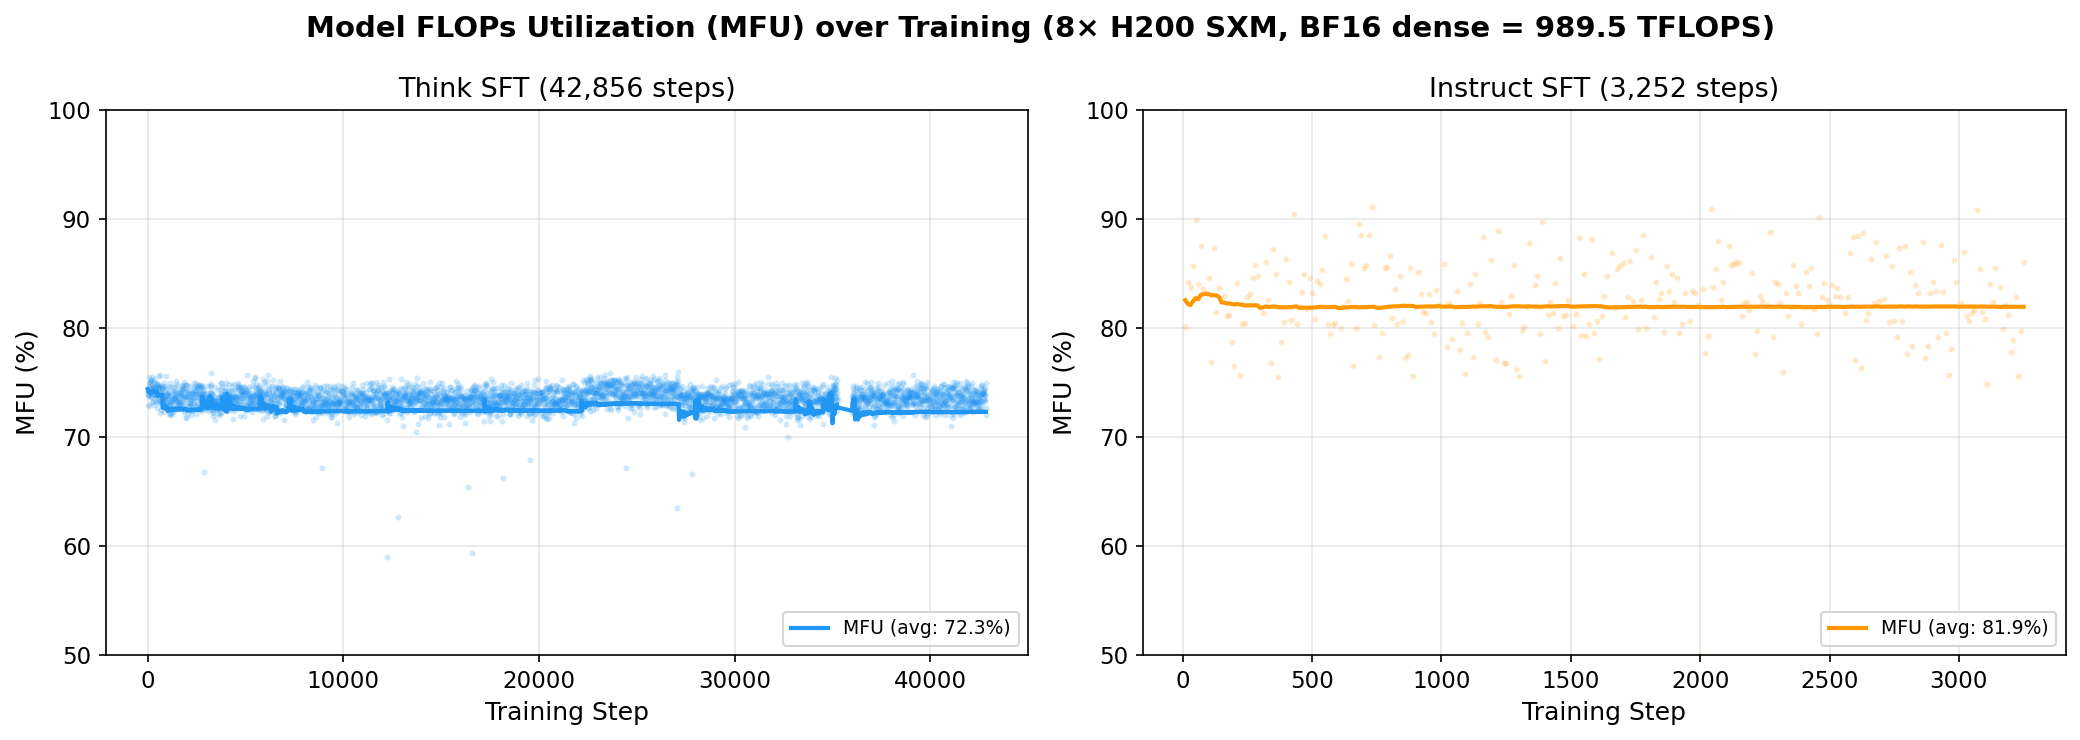
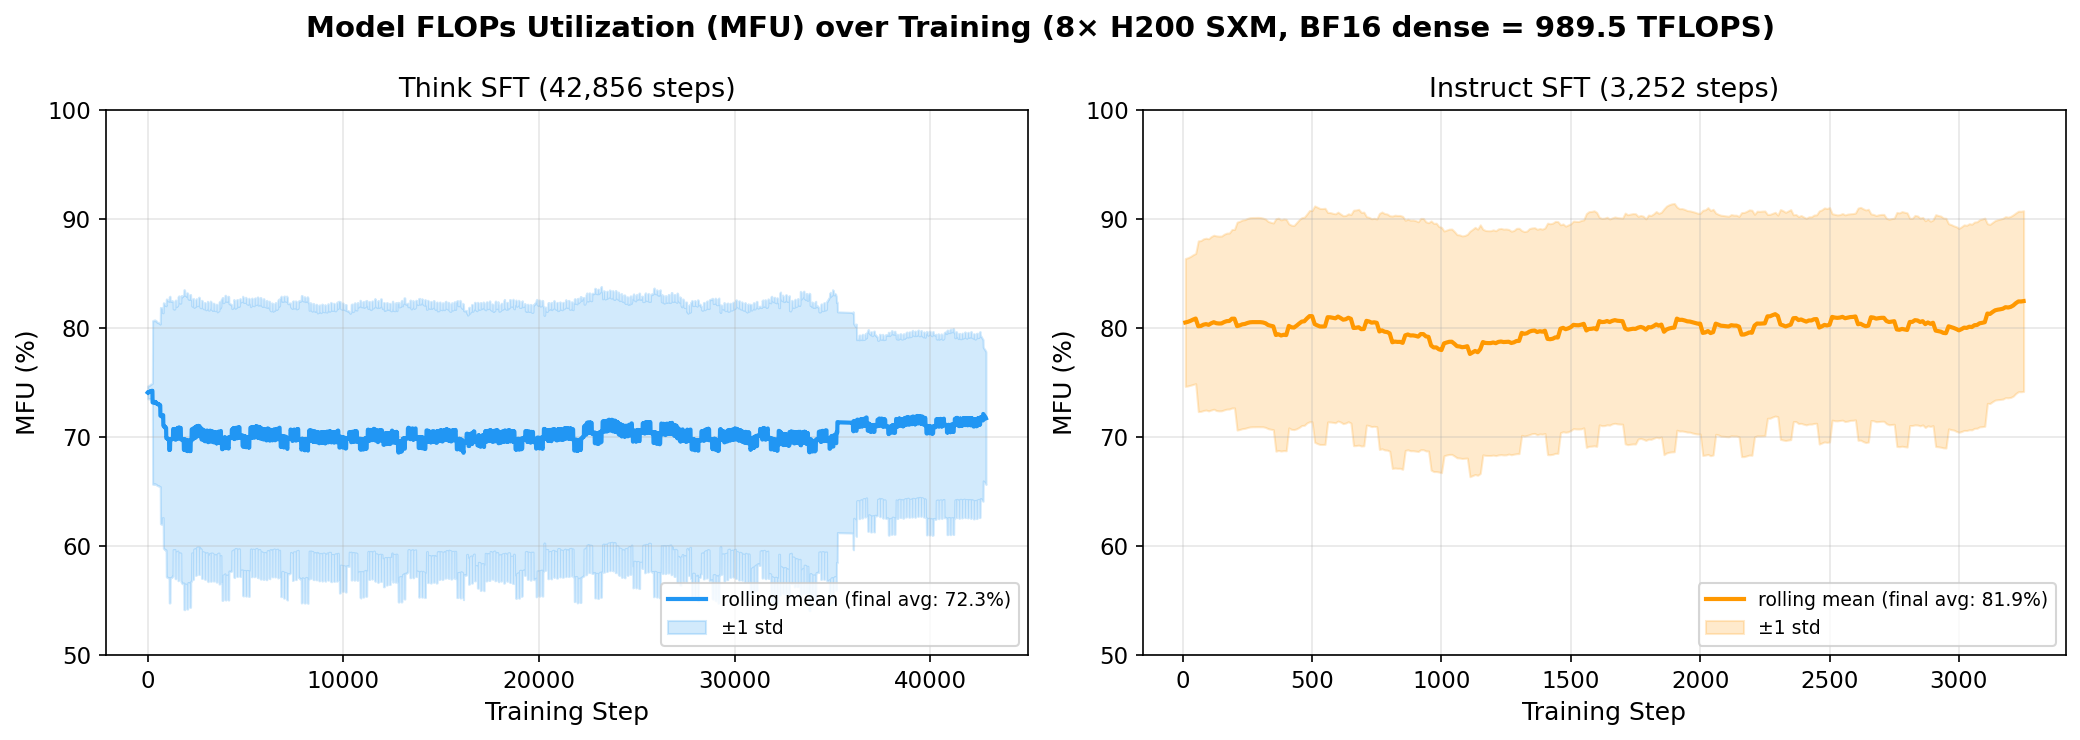
Consolidate throughput to v2-only, shaded confidence bands, remove notes
- Tables now show only v2 production run data (single table, not v1 vs v2)
- Plots use rolling mean + ±1 std shaded band instead of scatter points
- Remove MFU correction footnotes (detail moved into metric definition)
- Remove confusing "reported A100 basis" MFU row

Changed region(s): [[0.0625, 0.373, 0.5, 0.8703], [0.5625, 0.2797, 1.0, 0.6527], [0.8125, 0.777, 1.0, 0.8703]]

diff --git a/oellm/experiments/baseline_repro/scripts/plot_throughput.py b/oellm/experiments/baseline_repro/scripts/plot_throughput.py
@@ -243,30 +243,38 @@ def main():
         'legend.fontsize': 9, 'figure.dpi': 150,
     })
 
+    def rolling_stats(steps, values, window=50):
+        """Compute rolling mean and std for shaded confidence band."""
+        from numpy.lib.stride_tricks import sliding_window_view
+        if len(values) < window:
+            window = max(1, len(values) // 3)
+        pad = window // 2
+        # Pad edges to keep same length
+        padded = np.pad(values, (pad, window - 1 - pad), mode='edge')
+        windows = sliding_window_view(padded, window)
+        mean = windows.mean(axis=1)
+        std = windows.std(axis=1)
+        return mean, std
+
     # ====== Figure 1: TPS/device over steps ======
     fig, axes = plt.subplots(1, 2, figsize=(14, 5))
     fig.suptitle('Tokens Per Second (TPS) per Device over Training (8× H200 SXM, BF16)',
                  fontsize=14, fontweight='bold')
 
-    # Think (left)
-    axes[0].scatter(v2_think['steps'], v2_think['tps'], alpha=0.15, s=4, color='#2196F3')
-    axes[0].plot(v2_think['steps'], v2_think['tps_avg'], color='#2196F3', linewidth=2,
-                 label=f"Think SFT (avg: {v2_think['tps_avg'][-1]:,.0f})")
-    axes[0].set_title('Think SFT (42,856 steps)')
-    axes[0].set_xlabel('Training Step')
-    axes[0].set_ylabel('TPS / device')
-    axes[0].legend(loc='lower right')
-    axes[0].grid(True, alpha=0.3)
-
-    # Instruct (right)
-    axes[1].scatter(v2_instruct['steps'], v2_instruct['tps'], alpha=0.15, s=4, color='#FF9800')
-    axes[1].plot(v2_instruct['steps'], v2_instruct['tps_avg'], color='#FF9800', linewidth=2,
-                 label=f"Instruct SFT (avg: {v2_instruct['tps_avg'][-1]:,.0f})")
-    axes[1].set_title('Instruct SFT (3,252 steps)')
-    axes[1].set_xlabel('Training Step')
-    axes[1].set_ylabel('TPS / device')
-    axes[1].legend(loc='lower right')
-    axes[1].grid(True, alpha=0.3)
+    for ax, title, data, color in [
+        (axes[0], 'Think SFT (42,856 steps)', v2_think, '#2196F3'),
+        (axes[1], 'Instruct SFT (3,252 steps)', v2_instruct, '#FF9800'),
+    ]:
+        mean, std = rolling_stats(data['steps'], data['tps'])
+        ax.plot(data['steps'], mean, color=color, linewidth=2,
+                label=f"rolling mean (final avg: {data['tps_avg'][-1]:,.0f})")
+        ax.fill_between(data['steps'], mean - std, mean + std, color=color, alpha=0.2,
+                        label='±1 std')
+        ax.set_title(title)
+        ax.set_xlabel('Training Step')
+        ax.set_ylabel('TPS / device')
+        ax.legend(loc='lower right')
+        ax.grid(True, alpha=0.3)
 
     plt.tight_layout()
     for out_dir in [FIGURES, EVAL_FIGURES]:
@@ -279,14 +287,15 @@ def main():
     fig.suptitle('Model FLOPs Utilization (MFU) over Training (8× H200 SXM, BF16 dense = 989.5 TFLOPS)',
                  fontsize=14, fontweight='bold')
 
-    for idx, (title, data, color) in enumerate([
-        ('Think SFT (42,856 steps)', v2_think, '#2196F3'),
-        ('Instruct SFT (3,252 steps)', v2_instruct, '#FF9800'),
-    ]):
-        ax = axes[idx]
-        ax.scatter(data['steps'], data['mfu'], alpha=0.15, s=4, color=color)
-        ax.plot(data['steps'], data['mfu_avg'], color=color, linewidth=2,
-                label=f"MFU (avg: {data['mfu_avg'][-1]:.1f}%)")
+    for ax, title, data, color in [
+        (axes[0], 'Think SFT (42,856 steps)', v2_think, '#2196F3'),
+        (axes[1], 'Instruct SFT (3,252 steps)', v2_instruct, '#FF9800'),
+    ]:
+        mean, std = rolling_stats(data['steps'], data['mfu'])
+        ax.plot(data['steps'], mean, color=color, linewidth=2,
+                label=f"rolling mean (final avg: {data['mfu_avg'][-1]:.1f}%)")
+        ax.fill_between(data['steps'], mean - std, mean + std, color=color, alpha=0.2,
+                        label='±1 std')
         ax.set_title(title)
         ax.set_xlabel('Training Step')
         ax.set_ylabel('MFU (%)')

diff --git a/oellm/experiments/baseline_repro/eval_results.md b/oellm/experiments/baseline_repro/eval_results.md
@@ -436,54 +436,27 @@ Bradley-Terry ELO estimated on 20k LMArena battles (all languages, single-turn),
 
 ## Training Throughput
 
-Throughput metrics from wandb offline logs for both clusters. v1 ran entirely on kislurm (single-node), v2 ran entirely on HoreKa (multi-node) — these are independent reproductions, not one run split across clusters. MFU values corrected for H200 (OLMo-core misidentifies H200 as A100 — see notes).
+Throughput metrics for the v2 production runs (used for all evaluations above). Think SFT v2 started on kislurm and was transferred to HoreKa to finish; Instruct SFT v2 ran entirely on HoreKa. All metrics from wandb offline logs.
 
 **Metric definitions:**
-- **TPS (Tokens Per Second)**: Number of tokens one GPU processes per second. Multiply by 8 to get total cluster throughput. Higher TPS = faster training.
-- **MFU (Model FLOPs Utilization)**: Percentage of the GPU's peak theoretical compute actually used for training. 73% means 73% of the H200's 989.5 TFLOPS (BF16 dense) is doing useful work; the rest is memory transfers, synchronization, idle time. Includes forward + backward pass FLOPs per the PaLM convention.
-- **Wall-clock**: Total real-world training time, computed as `total_steps × avg_step_time`. Not calendar time — excludes SLURM queue waits, preemptions, and restarts between array jobs.
+- **TPS (Tokens Per Second)**: Number of tokens one GPU processes per second. Total cluster throughput = TPS/device × 8 GPUs.
+- **MFU (Model FLOPs Utilization)**: Percentage of the GPU's theoretical peak compute used for training (forward + backward FLOPs per the PaLM convention). 72% means 72% of the H200's 989.5 TFLOPS (BF16 dense) is doing useful matrix math; the rest is memory transfers, synchronization, and idle time.
+- **Wall-clock**: Total training compute time = `total_steps × avg_step_time`. Excludes SLURM queue waits and restart overhead.
 
 ### Hardware & Configuration
 
-| | kislurm (v1) | HoreKa (v2) |
-|---|---|---|
-| **GPUs** | 8× H200 SXM (1 node) | 2× 4 H200 SXM (2 nodes) |
-| **Cluster node(s)** | dlc2gpu21 (Think), dlc2gpu19 (Instruct) | hkn1953 (Think), hkn1952 (Instruct) |
-| **Intra-node** | NVLink 4th gen (900 GB/s bidirectional) | NVLink 4th gen (900 GB/s bidirectional) |
-| **Inter-node** | N/A (single node) | InfiniBand HDR200 (200 Gb/s), Mellanox ConnectX HCA (`mlx5`) |
-| **Precision** | BF16 | BF16 |
-| **Seq length** | 32,768 | 32,768 |
-| **Global batch size** | 1,048,576 tokens (1M) | 1,048,576 tokens (1M) |
-| **Tokens/step/device** | 131,072 | 131,072 |
-| **CUDA** | 13.0 | 12.4 |
+| | |
+|---|---|
+| **GPUs** | 8× NVIDIA H200 SXM (141 GiB HBM3e) |
+| **Topology** | Think: 1×8 H200 (kislurm, steps 0–35K) → 2×4 H200 (HoreKa, steps 35K–42.8K). Instruct: 2×4 H200 (HoreKa) |
+| **Intra-node** | NVLink 4th gen (900 GB/s bidirectional) |
+| **Inter-node** | InfiniBand HDR200 (200 Gb/s), Mellanox ConnectX HCA (`mlx5`) — HoreKa only |
+| **Precision** | BF16 |
+| **Seq length** | 32,768 |
+| **Global batch size** | 1,048,576 tokens (1M) |
+| **Tokens/step/device** | 131,072 |
 
-### Throughput Summary (kislurm, 1× 8 H200)
-
-| Metric | Think SFT | Instruct SFT |
-|---|---|---|
-| Total tokens | 45.5B | 3.6B |
-| Total steps | 43,376 | 3,394 |
-| Epochs | 2 | 2 |
-| Dataset size | 694,030 samples | 54,314 samples |
-| Learning rate | 5e-5 | 8e-5 |
-| | | |
-| **TPS/device (avg)** | **7,792** | **8,721** |
-| **Total TPS (8 GPUs)** | **62,333** | **69,767** |
-| Step time (avg) | 16.8 s | 15.0 s |
-| Steps/hour | 214 | 240 |
-| Tokens/GPU-hour | 28.0M | 31.4M |
-| | | |
-| MFU (reported, A100 basis ²) | 463.8% | 519.1% |
-| **MFU (corrected, H200 basis ³)** | **73.1%** | **81.8%** |
-| Data loading overhead | 0.33% | 0.56% |
-| | | |
-| GPU active memory | 96.9 GiB (69.3%) | 96.9 GiB (69.3%) |
-| GPU reserved memory | 104.6 GiB (74.8%) | 104.6 GiB (74.8%) |
-| | | |
-| **Computed wall-clock** | **202.8 h** | **14.2 h** |
-| **GPU-hours** | **1,622** | **113** |
-
-### Throughput Summary (HoreKa, 2× 4 H200)
+### Throughput Summary
 
 | Metric | Think SFT | Instruct SFT |
 |---|---|---|
@@ -499,8 +472,7 @@ Throughput metrics from wandb offline logs for both clusters. v1 ran entirely on
 | Steps/hour | 212 | 240 |
 | Tokens/GPU-hour | 27.7M | 31.4M |
 | | | |
-| MFU (reported, A100 basis ²) | 458.6% | 519.7% |
-| **MFU (corrected, H200 basis ³)** | **72.3%** | **81.9%** |
+| **MFU (H200 BF16 dense)** | **72.3%** | **81.9%** |
 | Data loading overhead | 0.15% | 0.15% |
 | | | |
 | GPU active memory | 110.5 GiB (79.0%) | 110.5 GiB (79.0%) |
@@ -509,22 +481,12 @@ Throughput metrics from wandb offline logs for both clusters. v1 ran entirely on
 | **Computed wall-clock** | **202.5 h** | **13.6 h** |
 | **GPU-hours** | **1,620** | **108** |
 
-### Cross-Cluster Comparison (kislurm vs HoreKa)
-
-| Metric | Think SFT | Instruct SFT |
-|---|---|---|
-| TPS/device delta | -1.1% | +0.1% |
-| GPU active mem delta | +13.6 GiB | +13.6 GiB |
-| MFU delta (H200) | -0.8 pp | +0.1 pp |
-
-Multi-node overhead is minimal (~1% TPS reduction for Think). The +13.6 GiB higher GPU memory on HoreKa is due to DeepSpeed ZeRO-2 communication buffers for inter-node gradient synchronization over InfiniBand.
-
 ### Per-Step Observations
 
-- **Think SFT** (kislurm): TPS/device stable at 7,600–7,900 across 4,870 logged steps (epoch 2, steps 38,510–43,370). Actual avg converged to 7,792 TPS/device.
-- **Instruct SFT** (kislurm): TPS/device stable at 8,700–9,100 across full training (steps 10–3,390). Higher throughput than Think due to higher masked-label ratio (61.4% vs 2.8%).
-- **Data loading**: Negligible overhead (<0.6% of step time). HoreKa lower (0.15%) than kislurm (0.33–0.56%), likely due to faster local NVMe on compute nodes.
-- **Memory**: Identical footprint within each cluster despite different datasets — expected since model architecture and batch size are identical.
+- **Think SFT**: TPS/device stable at 7,500–8,000 across 42K steps. Low outliers (~2,500–4,500 TPS) at session restarts are warmup/compilation overhead after SLURM preemptions.
+- **Instruct SFT**: TPS/device stable at 8,500–9,100 across full training. Higher throughput than Think due to higher masked-label ratio (56.1% vs 3.3%), reducing effective computation per token.
+- **Data loading**: Negligible overhead (0.15% of step time, ~0.2 ms per step).
+- **Memory**: Identical footprint for both models — expected since model architecture and batch size are identical.
 
 ### Throughput Plots
 
@@ -532,8 +494,3 @@ Multi-node overhead is minimal (~1% TPS reduction for Think). The +13.6 GiB high
 
 ![MFU over training steps](https://raw.githubusercontent.com/ferreirafabio/open-instruct/main/oellm/experiments/baseline_repro/figures/throughput_mfu.png)
 
-### Notes
-
-<sup>2</sup> OLMo-core's `SpeedMonitorCallback` does not have an H200 entry in its GPU peak FLOPS table (predates H200). It falls back to the A100 default (156 TFLOPS BF16 dense), inflating reported MFU by 6.3×. See `olmo_core/train/callbacks/speed_monitor.py:82-95`.
-
-<sup>3</sup> Corrected using H200 SXM BF16 dense peak = 989.5 TFLOPS (same Hopper GH100 die as H100 SXM). MFU includes forward + backward FLOPs per the PaLM convention.

diff --git a/oellm/evaluations/eval_results.md b/oellm/evaluations/eval_results.md
@@ -477,54 +477,27 @@ Bradley-Terry ELO estimated on 20k LMArena battles (all languages, single-turn),
 
 ## Training Throughput
 
-Throughput metrics from wandb offline logs for both clusters. v1 ran entirely on kislurm (single-node), v2 ran entirely on HoreKa (multi-node) — these are independent reproductions, not one run split across clusters. MFU values corrected for H200 (OLMo-core misidentifies H200 as A100 — see notes).
+Throughput metrics for the v2 production runs (used for all evaluations above). Think SFT v2 started on kislurm and was transferred to HoreKa to finish; Instruct SFT v2 ran entirely on HoreKa. All metrics from wandb offline logs.
 
 **Metric definitions:**
-- **TPS (Tokens Per Second)**: Number of tokens one GPU processes per second. Multiply by 8 to get total cluster throughput. Higher TPS = faster training.
-- **MFU (Model FLOPs Utilization)**: Percentage of the GPU's peak theoretical compute actually used for training. 73% means 73% of the H200's 989.5 TFLOPS (BF16 dense) is doing useful work; the rest is memory transfers, synchronization, idle time. Includes forward + backward pass FLOPs per the PaLM convention.
-- **Wall-clock**: Total real-world training time, computed as `total_steps × avg_step_time`. Not calendar time — excludes SLURM queue waits, preemptions, and restarts between array jobs.
+- **TPS (Tokens Per Second)**: Number of tokens one GPU processes per second. Total cluster throughput = TPS/device × 8 GPUs.
+- **MFU (Model FLOPs Utilization)**: Percentage of the GPU's theoretical peak compute used for training (forward + backward FLOPs per the PaLM convention). 72% means 72% of the H200's 989.5 TFLOPS (BF16 dense) is doing useful matrix math; the rest is memory transfers, synchronization, and idle time.
+- **Wall-clock**: Total training compute time = `total_steps × avg_step_time`. Excludes SLURM queue waits and restart overhead.
 
 ### Hardware & Configuration
 
-| | kislurm (v1) | HoreKa (v2) |
-|---|---|---|
-| **GPUs** | 8× H200 SXM (1 node) | 2× 4 H200 SXM (2 nodes) |
-| **Cluster node(s)** | dlc2gpu21 (Think), dlc2gpu19 (Instruct) | hkn1953 (Think), hkn1952 (Instruct) |
-| **Intra-node** | NVLink 4th gen (900 GB/s bidirectional) | NVLink 4th gen (900 GB/s bidirectional) |
-| **Inter-node** | N/A (single node) | InfiniBand HDR200 (200 Gb/s), Mellanox ConnectX HCA (`mlx5`) |
-| **Precision** | BF16 | BF16 |
-| **Seq length** | 32,768 | 32,768 |
-| **Global batch size** | 1,048,576 tokens (1M) | 1,048,576 tokens (1M) |
-| **Tokens/step/device** | 131,072 | 131,072 |
-| **CUDA** | 13.0 | 12.4 |
+| | |
+|---|---|
+| **GPUs** | 8× NVIDIA H200 SXM (141 GiB HBM3e) |
+| **Topology** | Think: 1×8 H200 (kislurm, steps 0–35K) → 2×4 H200 (HoreKa, steps 35K–42.8K). Instruct: 2×4 H200 (HoreKa) |
+| **Intra-node** | NVLink 4th gen (900 GB/s bidirectional) |
+| **Inter-node** | InfiniBand HDR200 (200 Gb/s), Mellanox ConnectX HCA (`mlx5`) — HoreKa only |
+| **Precision** | BF16 |
+| **Seq length** | 32,768 |
+| **Global batch size** | 1,048,576 tokens (1M) |
+| **Tokens/step/device** | 131,072 |
 
-### Throughput Summary (kislurm, 1× 8 H200)
-
-| Metric | Think SFT | Instruct SFT |
-|---|---|---|
-| Total tokens | 45.5B | 3.6B |
-| Total steps | 43,376 | 3,394 |
-| Epochs | 2 | 2 |
-| Dataset size | 694,030 samples | 54,314 samples |
-| Learning rate | 5e-5 | 8e-5 |
-| | | |
-| **TPS/device (avg)** | **7,792** | **8,721** |
-| **Total TPS (8 GPUs)** | **62,333** | **69,767** |
-| Step time (avg) | 16.8 s | 15.0 s |
-| Steps/hour | 214 | 240 |
-| Tokens/GPU-hour | 28.0M | 31.4M |
-| | | |
-| MFU (reported, A100 basis ²) | 463.8% | 519.1% |
-| **MFU (corrected, H200 basis ³)** | **73.1%** | **81.8%** |
-| Data loading overhead | 0.33% | 0.56% |
-| | | |
-| GPU active memory | 96.9 GiB (69.3%) | 96.9 GiB (69.3%) |
-| GPU reserved memory | 104.6 GiB (74.8%) | 104.6 GiB (74.8%) |
-| | | |
-| **Computed wall-clock** | **202.8 h** | **14.2 h** |
-| **GPU-hours** | **1,622** | **113** |
-
-### Throughput Summary (HoreKa, 2× 4 H200)
+### Throughput Summary
 
 | Metric | Think SFT | Instruct SFT |
 |---|---|---|
@@ -540,8 +513,7 @@ Throughput metrics from wandb offline logs for both clusters. v1 ran entirely on
 | Steps/hour | 212 | 240 |
 | Tokens/GPU-hour | 27.7M | 31.4M |
 | | | |
-| MFU (reported, A100 basis ²) | 458.6% | 519.7% |
-| **MFU (corrected, H200 basis ³)** | **72.3%** | **81.9%** |
+| **MFU (H200 BF16 dense)** | **72.3%** | **81.9%** |
 | Data loading overhead | 0.15% | 0.15% |
 | | | |
 | GPU active memory | 110.5 GiB (79.0%) | 110.5 GiB (79.0%) |
@@ -550,22 +522,12 @@ Throughput metrics from wandb offline logs for both clusters. v1 ran entirely on
 | **Computed wall-clock** | **202.5 h** | **13.6 h** |
 | **GPU-hours** | **1,620** | **108** |
 
-### Cross-Cluster Comparison (kislurm vs HoreKa)
-
-| Metric | Think SFT | Instruct SFT |
-|---|---|---|
-| TPS/device delta | -1.1% | +0.1% |
-| GPU active mem delta | +13.6 GiB | +13.6 GiB |
-| MFU delta (H200) | -0.8 pp | +0.1 pp |
-
-Multi-node overhead is minimal (~1% TPS reduction for Think). The +13.6 GiB higher GPU memory on HoreKa is due to DeepSpeed ZeRO-2 communication buffers for inter-node gradient synchronization over InfiniBand.
-
 ### Per-Step Observations
 
-- **Think SFT** (kislurm): TPS/device stable at 7,600–7,900 across 4,870 logged steps (epoch 2, steps 38,510–43,370). Actual avg converged to 7,792 TPS/device.
-- **Instruct SFT** (kislurm): TPS/device stable at 8,700–9,100 across full training (steps 10–3,390). Higher throughput than Think due to higher masked-label ratio (61.4% vs 2.8%).
-- **Data loading**: Negligible overhead (<0.6% of step time). HoreKa lower (0.15%) than kislurm (0.33–0.56%), likely due to faster local NVMe on compute nodes.
-- **Memory**: Identical footprint within each cluster despite different datasets — expected since model architecture and batch size are identical.
+- **Think SFT**: TPS/device stable at 7,500–8,000 across 42K steps. Low outliers (~2,500–4,500 TPS) at session restarts are warmup/compilation overhead after SLURM preemptions.
+- **Instruct SFT**: TPS/device stable at 8,500–9,100 across full training. Higher throughput than Think due to higher masked-label ratio (56.1% vs 3.3%), reducing effective computation per token.
+- **Data loading**: Negligible overhead (0.15% of step time, ~0.2 ms per step).
+- **Memory**: Identical footprint for both models — expected since model architecture and batch size are identical.
 
 ### Throughput Plots
 
@@ -573,8 +535,3 @@ Multi-node overhead is minimal (~1% TPS reduction for Think). The +13.6 GiB high
 
 ![MFU over training steps](https://raw.githubusercontent.com/ferreirafabio/open-instruct/main/oellm/evaluations/figures/throughput_mfu.png)
 
-### Notes
-
-<sup>2</sup> OLMo-core's `SpeedMonitorCallback` does not have an H200 entry in its GPU peak FLOPS table (predates H200). It falls back to the A100 default (156 TFLOPS BF16 dense), inflating reported MFU by 6.3×. See `olmo_core/train/callbacks/speed_monitor.py:82-95`.
-
-<sup>3</sup> Corrected using H200 SXM BF16 dense peak = 989.5 TFLOPS (same Hopper GH100 die as H100 SXM). MFU includes forward + backward FLOPs per the PaLM convention.
